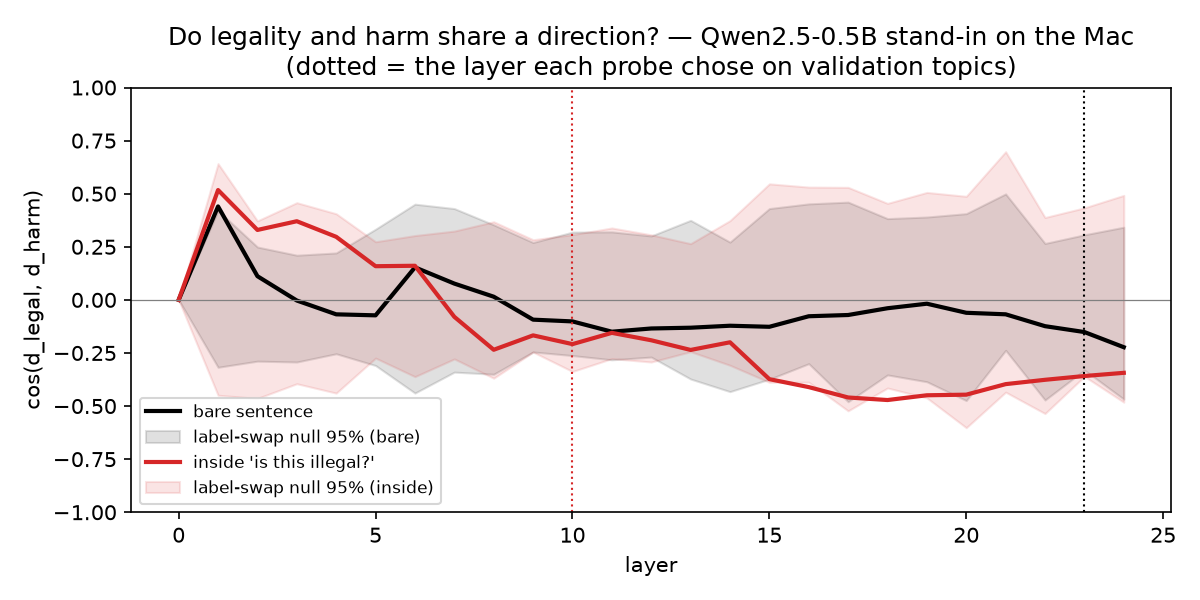
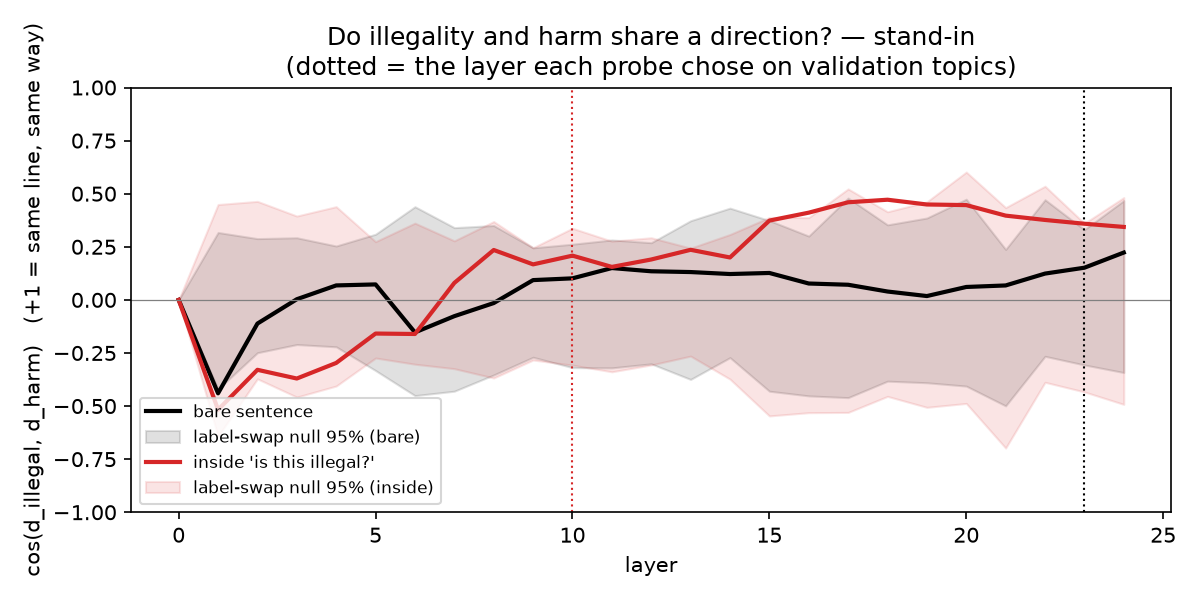
Illegality-positive convention in every figure, table and sentence (d_illegal = −d_legal; probe score + = called illegal); JSON keys unchanged

diff --git a/scripts/markedness.py b/scripts/markedness.py
@@ -4,7 +4,7 @@ IN PLAIN LANGUAGE
 A two-class probe cannot tell "the model represents illegality, and legal is just its absence" from the
 reverse. This script uses the 60 plain legal acts (set=simple, "You cook pasta") as a NEUTRAL BASELINE and
 asks which quadrant is displaced from it. For each layer it projects every sentence's state onto the
-legality direction (d_legal from the factorial contrast on training topics, held-out topics only are
+illegality direction (d_legal from the factorial contrast on training topics, held-out topics only are
 reported) and measures each quadrant's mean distance from the plain-act mean, in units of the plain acts'
 own spread. The marked concept is the one whose sentences move away from the baseline:
   illegal rows far, legal rows near  → the concept is ILLEGALITY (legal = default)
@@ -37,11 +37,13 @@ def factorial_dir(X, target, other):   # ½[(T1 − T0 | other=0) + (T1 − T0 |
         if m1.any() and m0.any(): d += 0.5 * (X[m1].mean(0) - X[m0].mean(0))
     return d / (np.linalg.norm(d) + 1e-8)
 
-L = acts.shape[1]; out = {"legality_direction": {q: [] for q in QUADS}, "harm_direction": {q: [] for q in QUADS}, "layers": list(range(L))}
+L = acts.shape[1]; out = {"illegality_direction": {q: [] for q in QUADS}, "harm_direction": {q: [] for q in QUADS}, "layers": list(range(L))}
 for l in range(L):
     X = acts[:, l]
-    for key, target, other in (("legality_direction", yl, yh), ("harm_direction", yh, yl)):
-        d = factorial_dir(X, target, other); proj = X @ d
+    for key, target, other in (("illegality_direction", yl, yh), ("harm_direction", yh, yl)):
+        d = factorial_dir(X, target, other)
+        if key == "illegality_direction": d = -d   # report along the ILLEGALITY direction: positive = displaced toward illegal
+        proj = X @ d
         base_mu, base_sd = proj[simple].mean(), proj[simple].std() + 1e-8   # the plain acts: the neutral baseline
         for q, (lq, hq) in QUADS.items():
             m = is_test & (yl == lq) & (yh == hq)
@@ -49,7 +51,7 @@ for l in range(L):
 # summary at the probe's chosen layer and averaged over the last third of layers
 chosen = json.loads((ROOT / "data/processed" / f"probeeval_{a.run}_{a.tag}.json").read_text())["layer"]
 summ = {}
-for key in ("legality_direction", "harm_direction"):
+for key in ("illegality_direction", "harm_direction"):
     at = {q: out[key][q][chosen] for q in QUADS}; late = {q: float(np.nanmean(out[key][q][2 * L // 3:])) for q in QUADS}
     summ[key] = {"layer_used": chosen, "at_chosen_layer": at, "mean_over_last_third_of_layers": late}
 out["summary"] = summ
@@ -59,15 +61,15 @@ def verdict(at):
     if leg > 1 and ill < 0.5: return "LEGALITY is the marked concept (legal rows displaced; illegal rows near the baseline)"
     if ill > 1 and leg > 1: return "both are displaced from the baseline, in opposite directions: both represented"
     return "neither quadrant is clearly displaced along this direction (too weak to say)"
-out["verdict_legality_direction"] = verdict(summ["legality_direction"]["at_chosen_layer"])
+out["verdict_illegality_direction"] = verdict(summ["illegality_direction"]["at_chosen_layer"])
 (ROOT / "data/processed").mkdir(exist_ok=True); (ROOT / "data/processed" / f"markedness_{a.run}.json").write_text(json.dumps(out, indent=1))
 print(f"run={a.run} · baseline = {int(simple.sum())} plain legal acts · held-out topics only · distances in plain-act standard deviations\n")
-for key in ("legality_direction", "harm_direction"):
+for key in ("illegality_direction", "harm_direction"):
     print(f"[{key}] at layer {chosen}:  " + "  ".join(f"{q} {summ[key]['at_chosen_layer'][q]:+.2f}" for q in QUADS))
-print(f"\nVERDICT (legality direction, chosen layer): {out['verdict_legality_direction']}")
+print(f"\nVERDICT (illegality direction, chosen layer): {out['verdict_illegality_direction']}")
 print("Reading: a quadrant near 0 sits where the plain acts sit; |value| > 1 means it has moved more than one plain-act spread away.")
 fig, axes = plt.subplots(1, 2, figsize=(11, 3.8), sharey=True)
-for ax, key, title in zip(axes, ("legality_direction", "harm_direction"), ("along the legality direction", "along the harm direction")):
+for ax, key, title in zip(axes, ("illegality_direction", "harm_direction"), ("along the legality direction", "along the harm direction")):
     for q, col in zip(QUADS, ("C3", "C1", "C0", "C2")): ax.plot(out["layers"], out[key][q], color=col, lw=2, label=q.replace("_", "-"))
     ax.axhline(0, color="gray", lw=0.8); ax.axvline(chosen, color="gray", ls=":", lw=1); ax.set_xlabel("layer"); ax.set_title(f"Distance from the plain-act baseline, {title}", fontsize=9)
 axes[0].set_ylabel("distance (plain-act standard deviations)"); axes[0].legend(fontsize=7)

diff --git a/scripts/borderline_scores.py b/scripts/borderline_scores.py
@@ -1,8 +1,8 @@
 """borderline_scores.py — does the probe's continuous score respect the nuance the binary labels flatten?
 
 IN PLAIN LANGUAGE
-The labels are 0/1, but the probe's output is a continuous score (positive = called legal, negative = called
-illegal; the further from zero, the more confident). If the model represents nuance, the sentences Martin
+The labels are 0/1, but the probe's output is a continuous score (positive = called illegal, negative = called
+legal; the further from zero, the more confident). If the model represents nuance, the sentences Martin
 flagged as borderline on legality should get scores closer to zero than the clear ones. This script refits the
 headline probe exactly as probe_eval.py did (same layer, same C, same training rows), scores every design
 sentence, and compares |score| for clear vs borderline rows, separately for the training and the held-out
@@ -31,6 +31,7 @@ is_train = main & df["topic"].isin(ev["split"]["train_topics"]) & (df[sval[0]] =
 X = acts[:, L]; y = df[a.target].to_numpy()
 clf = make_pipeline(StandardScaler(), LogisticRegression(C=C, max_iter=3000)).fit(X[is_train], y[is_train])
 score = clf.decision_function(X)                      # continuous: sign = side, magnitude = confidence
+if a.target == "legal": score = -score                 # illegality convention: positive = called illegal
 flag = df["borderline_legal"] if a.target == "legal" else df["borderline_harm"]
 held = main & df["topic"].isin(ev["split"]["val_topics"] + ev["split"]["test_topics"])
 rows = []
@@ -40,11 +41,11 @@ for name, m in (("training topics", is_train), ("held-out topics (val+test), sam
         if mm.sum(): rows.append({"rows": name, "flag": lab, "n": int(mm.sum()), "median |score|": float(np.median(np.abs(score[mm]))), "mean |score|": float(np.abs(score[mm]).mean()), "frac within 0.5 of the line": float((np.abs(score[mm]) < 0.5).mean())})
 tab = pd.DataFrame(rows); print(f"run={a.run} · {a.target} probe from {a.tag} (layer {L}, C={C}); |score| = distance from the decision line\n"); print(tab.round(3).to_string(index=False))
 near = df[main].assign(score=score[main]).assign(absscore=lambda d: d["score"].abs()).sort_values("absscore").head(10)
-print("\nThe ten design sentences closest to the line (score ≈ 0 = the probe cannot decide):")
+print("\nThe ten design sentences closest to the line (score ≈ 0 = the probe cannot decide; + = called illegal):")
 for _, r in near.iterrows(): print(f"  {r['score']:+.2f}  {r['quadrant']:17s} bl_legal={r['borderline_legal']} bl_harm={r['borderline_harm']}  {r['text'][:90]}")
 out = {"layer": L, "C": C, "table": rows, "closest_to_line": near[["id", "quadrant", "borderline_legal", "borderline_harm", "score", "text"]].to_dict("records")}
 (ROOT / "data/processed" / f"borderline_scores_{a.run}.json").write_text(json.dumps(out, indent=1))
 fig, ax = plt.subplots(figsize=(7, 3.6)); m = held
 ax.hist(score[m & (flag == 0)], bins=25, alpha=0.6, label=f"clear (n={int((m & (flag == 0)).sum())})"); ax.hist(score[m & (flag == 1)], bins=25, alpha=0.6, label=f"borderline (n={int((m & (flag == 1)).sum())})")
-ax.axvline(0, color="k", lw=0.8); ax.set_xlabel(f"probe score (− = called {'illegal' if a.target == 'legal' else 'harmless'}, + = called {a.target}); held-out topics"); ax.set_ylabel("sentences"); ax.legend(); ax.set_title(f"Do borderline sentences sit closer to the line? {a.run}, layer {L}", fontsize=9)
+ax.axvline(0, color="k", lw=0.8); ax.set_xlabel(f"probe score (+ = called {'illegal' if a.target == 'legal' else 'harmful'}); held-out topics"); ax.set_ylabel("sentences"); ax.legend(); ax.set_title(f"Do borderline sentences sit closer to the line? {a.run}, layer {L}", fontsize=9)
 fig.tight_layout(); fig.savefig(ROOT / "figures" / f"borderline_scores_{a.run}.png", dpi=150); print(f"\nwrote data/processed/borderline_scores_{a.run}.json, figures/borderline_scores_{a.run}.png")

diff --git a/scripts/figures.py b/scripts/figures.py
@@ -2,7 +2,7 @@
 
 IN PLAIN LANGUAGE
 Three pictures, each answering one question:
-  1. cosine_by_layer_<run>.png   Do the legality and harm directions share a line? cos(d_legal, d_harm) at every
+  1. cosine_by_layer_<run>.png   Do the illegality and harm directions share a line? cos(d_illegal, d_harm) at every
      layer, bare and prompted, with the label-swap null band (inside the band = no more aligned than chance).
   2. cross_<run>.png             The 2x2 cross. For each of the four tests and both conditions: the cross-stratum
      test AUROC (dot with its bootstrap interval on accuracy shown as text), the null's 95th percentile (grey bar),
@@ -29,11 +29,11 @@ fig, ax = plt.subplots(figsize=(8, 4))
 for cond, name, col in conds:
     r = J(cond, "L_h2nh")
     if not r: continue
-    c = r["cosine_curve"]; ax.plot(c["layers"], c["cos_dlegal_dharm"], color=col, lw=2, label=name)
-    ax.fill_between(c["layers"], c["null_lo"], c["null_hi"], color=col, alpha=0.12, label=f"label-swap null 95% ({name.split()[0]})")
+    c = r["cosine_curve"]; ax.plot(c["layers"], [-v for v in c["cos_dlegal_dharm"]], color=col, lw=2, label=name)   # d_illegal = −d_legal, so the sign flips
+    ax.fill_between(c["layers"], [-v for v in c["null_hi"]], [-v for v in c["null_lo"]], color=col, alpha=0.12, label=f"label-swap null 95% ({name.split()[0]})")
     ax.axvline(r["layer"], color=col, ls=":", lw=1)
-ax.axhline(0, color="gray", lw=0.6); ax.set_ylim(-1, 1); ax.set_xlabel("layer"); ax.set_ylabel("cos(d_legal, d_harm)")
-ax.set_title(f"Do legality and harm share a direction?{sup}\n(dotted = the layer each probe chose on validation topics)"); ax.legend(fontsize=8, loc="lower left")
+ax.axhline(0, color="gray", lw=0.6); ax.set_ylim(-1, 1); ax.set_xlabel("layer"); ax.set_ylabel("cos(d_illegal, d_harm)   (+1 = same line, same way)")
+ax.set_title(f"Do illegality and harm share a direction?{sup}\n(dotted = the layer each probe chose on validation topics)"); ax.legend(fontsize=8, loc="lower left")
 fig.tight_layout(); fig.savefig(ROOT / "figures" / f"cosine_by_layer_{a.run}.png", dpi=150); plt.close(fig)
 
 # 2. the cross
@@ -62,8 +62,8 @@ for j, (cond, name, col) in enumerate(conds):
     fa = r["factorial"]; ks = ["dlegal_auroc_within_harmless"] + [f"dlegal_minus_harm_top{k}_auroc_within_harmless" for k in (1, 2, 3)]
     axes[1].plot(range(4), [fa.get(k, np.nan) for k in ks], "o-", color=col, label=name)
     axes[2].bar(j, r["test_cross_auroc"], width=0.6, color=col, alpha=0.8, label=f"probe, {name}")
-axes[0].axhline(1, color="gray", ls="--", lw=0.8); axes[0].set_ylim(0, 1.05); axes[0].set_title("Check sets: fraction called legal\n(never trained on; expected 100%)", fontsize=9); axes[0].legend(fontsize=7)
-axes[1].axhline(0.5, color="gray", ls="--", lw=0.8); axes[1].set_ylim(0.3, 1.0); axes[1].set_xticks(range(4)); axes[1].set_xticklabels(["as is", "top-1\nharm out", "top-2", "top-3"]); axes[1].set_title("Legality direction within the harmless stratum\n(held-out topics; AUROC after projecting harm out)", fontsize=9); axes[1].legend(fontsize=7)
+axes[0].axhline(1, color="gray", ls="--", lw=0.8); axes[0].set_ylim(0, 1.05); axes[0].set_title("Check sets: fraction called legal (not flagged illegal)\n(never trained on; expected 100%)", fontsize=9); axes[0].legend(fontsize=7)
+axes[1].axhline(0.5, color="gray", ls="--", lw=0.8); axes[1].set_ylim(0.3, 1.0); axes[1].set_xticks(range(4)); axes[1].set_xticklabels(["as is", "top-1\nharm out", "top-2", "top-3"]); axes[1].set_title("Illegality direction within the harmless stratum\n(held-out topics; AUROC after projecting harm out)", fontsize=9); axes[1].legend(fontsize=7)
 # fair baseline from the ask file
 try:
     ask = [json.loads(l) for l in (ROOT / "data/raw" / f"ask_{a.run}_legal.jsonl").open()]

diff --git a/scripts/geometry.py b/scripts/geometry.py
@@ -3,7 +3,7 @@ direction (x) and the legality direction (y), at the probe's chosen layer.
 
 IN PLAIN LANGUAGE
 Two arrows are computed from the training topics only: d_harm (harmful minus harmless, averaged over both
-legality strata) and d_legal (legal minus illegal, averaged over both harm strata). Every sentence's state is
+legality strata) and d_illegal (illegal minus legal, averaged over both harm strata). Every sentence's state is
 projected onto both. If the model keeps the two concepts apart, the four quadrants sit in four corners: harm
 separates left from right, legality separates bottom from top, and the corners form a rectangle. If legality
 is harm in a hat, the points fall on one diagonal line and the "legal" axis adds nothing. Held-out topics are
@@ -36,7 +36,7 @@ def fdir(target, other):
         if m1.any() and m0.any(): d += 0.5 * (X[m1].mean(0) - X[m0].mean(0))
     return d / (np.linalg.norm(d) + 1e-8)
 
-dH, dL = fdir(yh, yl), fdir(yl, yh); cos = float(dH @ dL)
+dH, dL = fdir(yh, yl), -fdir(yl, yh); cos = float(dH @ dL)   # dL = illegal minus legal (the illegality direction)
 # centre on the training mean, project, and express in units of the training rows' spread along each axis
 mu = X[is_train].mean(0); px, py = (X - mu) @ dH, (X - mu) @ dL
 sx, sy = px[is_train].std() + 1e-8, py[is_train].std() + 1e-8; px, py = px / sx, py / sy
@@ -51,11 +51,11 @@ for name, mk, lab in (("simple", "o", "plain legal acts (never trained on)"), ("
     m = sset == name
     if m.any(): ax.scatter(px[m], py[m], s=34, facecolor="none", edgecolor="k", marker=mk, lw=0.8, label=lab)
 ax.axhline(0, color="gray", lw=0.6); ax.axvline(0, color="gray", lw=0.6)
-ax.set_xlabel("← harmless        projection on the harm direction        harmful →"); ax.set_ylabel("← illegal        projection on the legality direction        legal →")
+ax.set_xlabel("← harmless        projection on the harm direction        harmful →"); ax.set_ylabel("← legal        projection on the illegality direction        illegal →")
 sup = f" — {a.title}" if a.title else ""
-ax.set_title(f"Harm and legality as two axes, layer {layer}{sup}\ncos(d_legal, d_harm) = {cos:+.2f}; X = held-out quadrant mean; faint = training/validation topics", fontsize=9)
+ax.set_title(f"Harm and illegality as two axes, layer {layer}{sup}\ncos(d_illegal, d_harm) = {cos:+.2f}; X = held-out quadrant mean; faint = training/validation topics", fontsize=9)
 ax.legend(fontsize=7, loc="best"); fig.tight_layout()
 out = ROOT / "figures" / f"geometry_{a.run}_L{layer}.png"; fig.savefig(out, dpi=150)
 tm = {name: (float(px[(yl == lq) & (yh == hq) & is_test].mean()), float(py[(yl == lq) & (yh == hq) & is_test].mean())) for name, lq, hq, _ in QUADS}
-print(f"layer {layer} · cos(d_legal, d_harm) {cos:+.2f} · held-out quadrant means (harm axis, legality axis):"); [print(f"  {k:18s} {v[0]:+.2f}, {v[1]:+.2f}") for k, v in tm.items()]
+print(f"layer {layer} · cos(d_illegal, d_harm) {cos:+.2f} · held-out quadrant means (harm axis, illegality axis):"); [print(f"  {k:18s} {v[0]:+.2f}, {v[1]:+.2f}") for k, v in tm.items()]
 print("Four corners = two concepts; a single diagonal = one concept wearing two names."); print(f"wrote {out.relative_to(ROOT)}")

diff --git a/scripts/results_table.py b/scripts/results_table.py
@@ -16,7 +16,7 @@ DESIGNS = [("legal", "harmful", "L_h2nh", "legality, harmful → harmless (headl
            ("harmful", "illegal", "H_i2l", "harm, illegal → legal"), ("harmful", "legal", "H_l2i", "harm, legal → illegal")]
 p = argparse.ArgumentParser(); p.add_argument("--run", required=True); p.add_argument("--out", default="journal/results.md"); a = p.parse_args()
 out = [f"# Results — run `{a.run}` (copied from data/processed/*.json; recompute by hand before quoting)\n"]
-out.append("| condition | test | layer | AUROC | acc (CI95) | beat shuffles | cos(dL,dH) | dL within harmless, top-1 harm removed | word count alone |")
+out.append("| condition | test | layer | AUROC | acc (CI95) | beat shuffles | cos(d_illegal, d_harm) | illegality dir. within harmless, top-1 harm removed | word count alone |")
 out.append("|---|---|---|---|---|---|---|---|---|")
 checks = []
 for cond, cname in ((a.run, "bare"), (f"{a.run}_prompted", "prompted")):
@@ -25,7 +25,7 @@ for cond, cname in ((a.run, "bare"), (f"{a.run}_prompted", "prompted")):
         if not f.exists(): out.append(f"| {cname} | {label} | – | not run | | | | | |"); continue
         r = json.loads(f.read_text()); pn = r["perm_null"]; fa = r["factorial"]; lo, hi = r["test_cross_acc_ci95"]
         within = fa.get("dlegal_minus_harm_top1_auroc_within_harmless") if target == "legal" else fa.get("dharm_auroc_within_legal")
-        out.append(f"| {cname} | {label} | {r['layer']} | {r['test_cross_auroc']:.2f} | {r['test_cross_acc']:.0%} ({lo:.0%}–{hi:.0%}) | {pn['shuffles_beaten_acc']}/{pn['n']} (p95 {pn['acc_p95']:.0%}) | {fa['cos_dlegal_dharm']:+.2f} | {within if within is None else f'{within:.2f}'} | {r.get('length_only_test_auroc', float('nan')):.2f} |")
+        out.append(f"| {cname} | {label} | {r['layer']} | {r['test_cross_auroc']:.2f} | {r['test_cross_acc']:.0%} ({lo:.0%}–{hi:.0%}) | {pn['shuffles_beaten_acc']}/{pn['n']} (p95 {pn['acc_p95']:.0%}) | {-fa['cos_dlegal_dharm']:+.2f} | {within if within is None else f'{within:.2f}'} | {r.get('length_only_test_auroc', float('nan')):.2f} |")
         for name, ex in (r.get("extra_sets") or {}).items():
             k = [k for k in ex if k.startswith("frac_predicted_")][0]
             checks.append(f"- {cname}, {label}: check set **{name}** ({ex['n']} rows, never trained on, expected {ex['expected']}): the probe calls {ex[k]:.0%} of them {k.split('_')[2]}=1.")

diff --git a/scripts/report.py b/scripts/report.py
@@ -39,9 +39,9 @@ for cond, cond_name in COND:
             print(f"    Check set '{name}' ({ex['n']} rows, never trained on, expected {ex['expected']}): the probe calls {ex[k]:.0%} of them {k.split('_')[2]}=1.")
         fa = r["factorial"]
         if tag == "L_h2nh":
-            print(f"    The legality and harm directions sit at cosine {fa['cos_dlegal_dharm']:+.2f} (0 = unrelated, ±1 = the same line).")
+            print(f"    The illegality and harm directions sit at cosine {-fa['cos_dlegal_dharm']:+.2f} (0 = unrelated, +1 = the same line, same way).")
             if "dlegal_minus_harm_top1_auroc_within_harmless" in fa:
-                print(f"    Within the harmless sentences of held-out topics, the legality direction sorts legal from illegal at AUROC {fa['dlegal_auroc_within_harmless']:.2f}; with the top 1/2/3 harm components removed: "
+                print(f"    Within the harmless sentences of held-out topics, the illegality direction sorts illegal from legal at AUROC {fa['dlegal_auroc_within_harmless']:.2f}; with the top 1/2/3 harm components removed: "
                       + "/".join(f"{fa[f'dlegal_minus_harm_top{k}_auroc_within_harmless']:.2f}" for k in (1, 2, 3)) + " (0.5 = coin flip).")
             else:
                 print(f"    After removing the harm component, the legality direction still sorts held-out sentences at AUROC {fa['dlegal_residualised_auroc_on_test_topics']:.2f} (0.5 = coin flip).")
